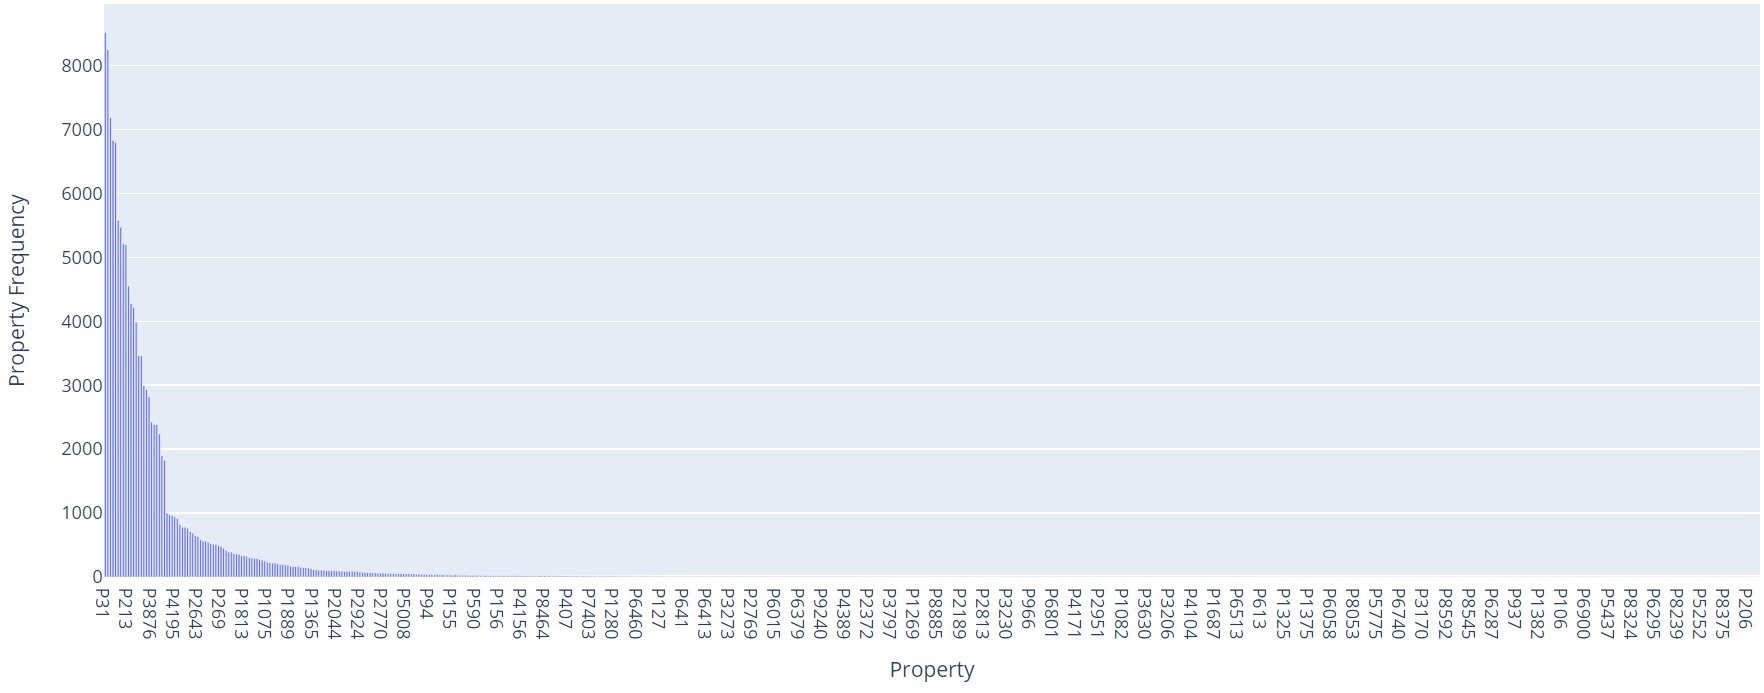
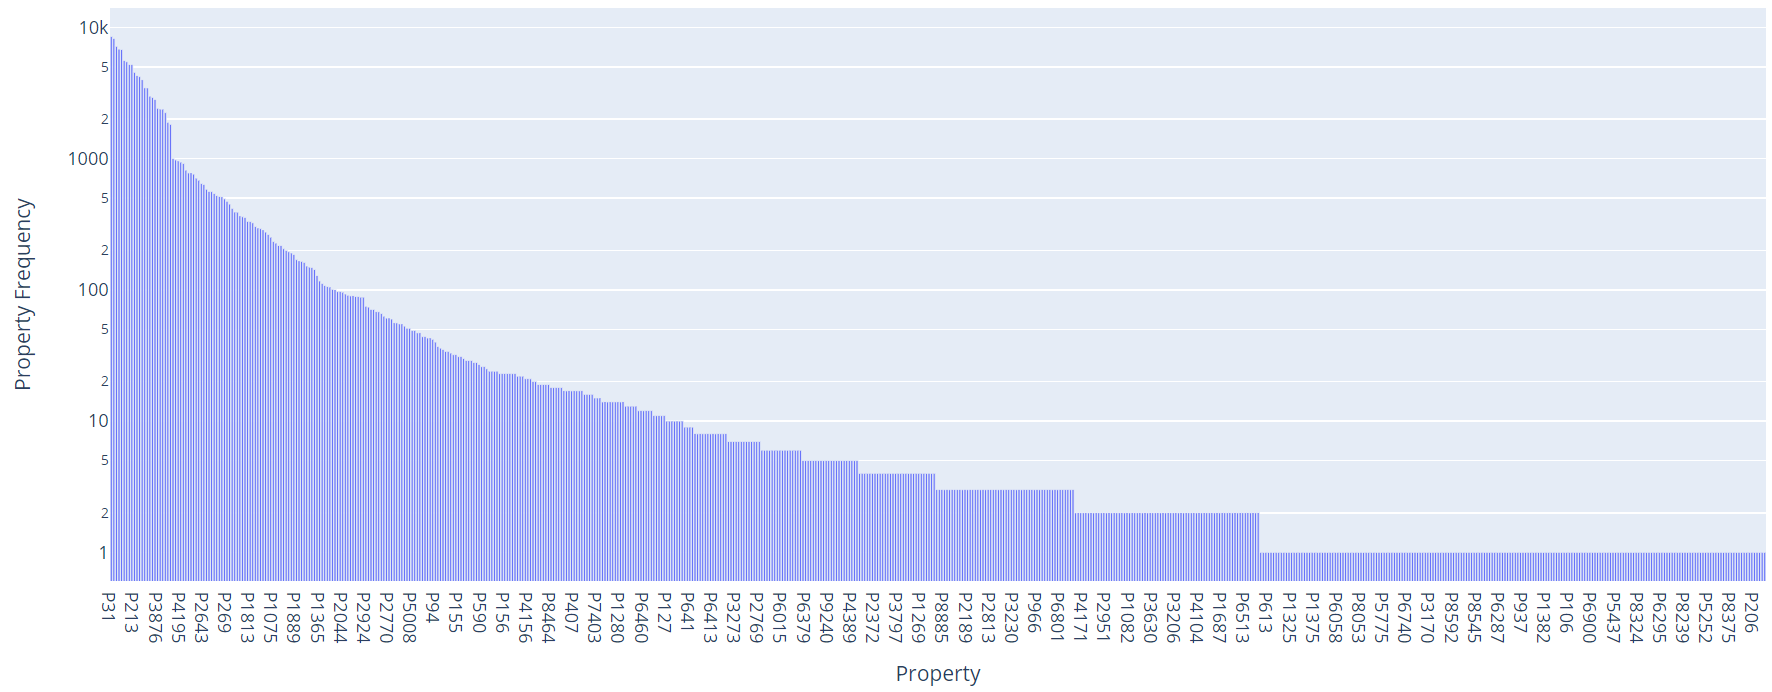
tilføjede propertydistHumans

diff --git a/Users/Magnus/PropertyDistUni.py b/Users/Magnus/PropertyDistUni.py
@@ -1,0 +1,153 @@
+from extractPropertiesFromNDJSON import extractProperties
+from pathlib import Path
+import pandas as pd
+import numpy as np
+import plotly.graph_objects as go
+
+
+def property_count_function(listOfProperties):
+    """
+
+    :param listOfProperties: Input is the listOfProperties, use the function extractProperties.
+    The for loop expects a nested list.
+    :return: property_dataframe: a dataframe containing the properties extracted from the list and the
+    frequency of which they appear
+    """
+
+    property_count = {}  # Empty dict, is gonna look like this: property_count{property : count}
+    for lists in listOfProperties:
+        try:
+            for properties in lists:
+                property_count[properties] = property_count.get(properties, 0) + 1
+        except TypeError as e:
+            print(e)
+
+    # Converts the dictionary to a dataframe
+    property_dataframe = pd.DataFrame(list(property_count.items()), columns=['Property', 'Frequency'])
+    # property_dataframe = property_dataframe.set_index("Property")
+    property_dataframe = property_dataframe.sort_values(by=['Frequency'], ascending=False)
+
+    return property_dataframe
+
+
+def entity_property_count_function(listOfProperties):
+    """
+    Notice that this function returns both a dataframe and a list.
+    When assigning a variable to the return values [0] is the dataframe and [1] is the list.
+    i.e. df = entity_property_count_function(listofProperties)[0] and
+    list = entity_property_count_function(listofProperties)[1]
+
+    :param listOfProperties: Input is the listOfProperties, use the function extractProperties.
+    The for loop expects a nested list.
+    :return: returns 1. the entity_property_dataframe containing ['Number of Properties'] and how many universites
+    have this exact number in ['#Universities'].
+    also returns 2. the number_of_properties_list which is list of amount of properties in each university item
+    """
+    entity_property_count = {}
+    number_of_properties_list = []
+    for lists in listOfProperties:
+        if len(lists) not in entity_property_count:
+            entity_property_count.setdefault(len(lists), 1)
+            number_of_properties_list.append(len(lists))
+        elif len(lists) in entity_property_count:
+            entity_property_count[len(lists)] += 1
+            number_of_properties_list.append(len(lists))
+
+    entity_property_dataframe = pd.DataFrame(list(entity_property_count.items()), columns=['#Properties',
+                                                                                           '#Universities'])
+    entity_property_dataframe = entity_property_dataframe.sort_values(by=['#Properties'], ascending=True)
+    # The next two lines switches the two columns.
+    column_titles = ['#Universities', "#Properties"]
+    entity_property_dataframe = entity_property_dataframe.reindex(columns=column_titles)
+
+    # Sorts the number_of_properties_list before returning it
+    number_of_properties_list = sorted(number_of_properties_list)
+
+    return entity_property_dataframe, number_of_properties_list
+
+
+def replacePcodesWithPlabels(property_dataframe):
+    """
+    A function that replaces a dataframe column ['Property'] with the property labels from the csv
+    propertes.csv.
+
+    :param property_dataframe: Input is a dataframe with the P-codes you want to replace with P-labels.
+    Notice(!) in the code that the it expects the P-code column to be called 'Property'!
+    :return: property_dataframe: returns a dataframe with the P-codes replaced with P-labels
+    """
+
+    # Converts the csv file containing P-codes and P label values to a dataframe
+    property_label_dataframe = pd.read_csv(Path("../../Data/properties.csv"))
+
+    for prop in property_dataframe['Property']:
+        # This for loop goes trough each property and replaces it with each corresponding label
+        if prop in list(property_label_dataframe['Property']):
+            prop_label_value = property_label_dataframe.loc[property_label_dataframe['Property'] == prop,
+                                                            'Value'].iloc[0]
+
+            # This line replaces the P-code with the P label value - Notice inplace=True
+            property_dataframe['Property'].replace({prop: prop_label_value}, inplace=True)
+
+    return property_dataframe
+
+
+if __name__ == '__main__':
+
+    # The full list of properties
+    property_list = extractProperties(Path("../../Data/universities_latest_all.ndjson"))
+
+    # Uses the property_count_function to create a dataframe containing properties and their frequency.
+    property_count_df = property_count_function(property_list)
+
+    # Copy of the property_count_df that should be with P-codes and not P label values
+    property_count_df_without_labels = property_count_df.copy()
+
+    # Uses the function replacePcodesWithPlabels on the dataframe to make a new one with P label values
+    property_count_df_with_labels = replacePcodesWithPlabels(property_count_df)
+
+    number_of_properties_above_1000 = []
+    number_of_properties_below_1000 = []
+    for index, row in property_count_df.iterrows():
+        if row['Frequency'] > 1000:
+            number_of_properties_above_1000.append(index)
+        else:
+            number_of_properties_below_1000.append(index)
+
+    # Below are the figures
+    # Barplot with ALL P-codes and their frequency
+    fig_without_labels = go.Figure()
+    fig_without_labels.add_trace(go.Bar(x=property_count_df_without_labels['Property'],
+                                        y=property_count_df_without_labels['Frequency']))
+    fig_without_labels.update_layout(
+        xaxis_title="Property", yaxis_title="Property Frequency"
+    )
+    fig_without_labels.update_yaxes(type='log')
+    fig_without_labels.show()
+
+    # Horizontal barplot with top 24 P label values and their frequency
+    fig_with_labels = go.Figure()
+    fig_with_labels.add_trace(go.Bar(x=property_count_df_with_labels['Frequency'][0:25],
+                                     y=property_count_df_with_labels['Property'],
+                                     orientation='h'))
+    fig_with_labels.update_layout(
+        xaxis_title="Property Frequency",
+        yaxis_title="Property"
+    )
+    #fig_with_labels.show()
+
+    # The two lines below are the dataframe and a list. The list is used for median and average calculations.
+    university_property_dataframe = entity_property_count_function(property_list)[0]
+    count_list = entity_property_count_function(property_list)[1]
+
+    # Barplot showing how many properties have the exact number of properties in them.
+    university_property_fig = go.Figure()
+    university_property_fig.add_trace(go.Bar(x=university_property_dataframe['#Properties'],
+                                             y=university_property_dataframe['#Universities']))
+    university_property_fig.update_layout(
+        xaxis_title="Number of Properties",
+        yaxis_title="Number of Universities"
+    )
+    #university_property_fig.show()
+
+    #print("The median value for the amount of properties in universities is {}".format(np.median(count_list)))
+    #print("The average value for the amount of properties in universities is {}".format(np.average(count_list)))

diff --git a/Users/Magnus/PropertyDistHumans.py b/Users/Magnus/PropertyDistHumans.py
@@ -2,6 +2,7 @@ from extractPropertiesFromNDJSON import extractProperties
 from pathlib import Path
 import pandas as pd
 import plotly.graph_objects as go
+import numpy as np
 
 
 def property_count_function(listOfProperties):
@@ -93,7 +94,7 @@ def replacePcodesWithPlabels(property_dataframe):
 if __name__ == '__main__':
 
     # The full list of properties
-    property_list = extractProperties(Path("../../Data/universities_latest_all.ndjson"))
+    property_list = extractProperties(Path("../../Data/danish_humans.ndjson"))
 
     # Uses the property_count_function to create a dataframe containing properties and their frequency.
     property_count_df = property_count_function(property_list)
@@ -120,7 +121,8 @@ if __name__ == '__main__':
     fig_without_labels.update_layout(
         xaxis_title="Property", yaxis_title="Property Frequency"
     )
-    #fig_without_labels.show()
+    fig_without_labels.update_yaxes(type="log")
+    fig_without_labels.show()
 
     # Horizontal barplot with top 24 P label values and their frequency
     fig_with_labels = go.Figure()
@@ -131,7 +133,7 @@ if __name__ == '__main__':
         xaxis_title="Property Frequency",
         yaxis_title="Property"
     )
-    #fig_with_labels.show()
+    fig_with_labels.show()
 
     # The two lines below are the dataframe and a list. The list is used for median and average calculations.
     university_property_dataframe = entity_property_count_function(property_list)[0]
@@ -145,7 +147,7 @@ if __name__ == '__main__':
         xaxis_title="Number of Properties",
         yaxis_title="Number of Universities"
     )
-    #university_property_fig.show()
+    university_property_fig.show()
 
-    #print("The median value for the amount of properties in universities is {}".format(np.median(count_list)))
-    #print("The average value for the amount of properties in universities is {}".format(np.average(count_list)))
+    print("The median value for the amount of properties in universities is {}".format(np.median(count_list)))
+    print("The average value for the amount of properties in universities is {}".format(np.average(count_list)))

diff --git a/Users/Ibrahim/PartitionData.py b/Users/Ibrahim/PartitionData.py
@@ -1,7 +1,7 @@
 from extractPropertiesFromNDJSON import extractProperties
 from pathlib import Path
 import pandas as pd
-from Users.Magnus.PropertyDist import property_count_function, entity_property_count_function
+from Users.Magnus.PropertyDistUni import property_count_function, entity_property_count_function
 
 
 

diff --git a/Users/Magnus/MIS2.py b/Users/Magnus/MIS2.py
@@ -1,5 +1,5 @@
 from extractPropertiesFromNDJSON import extractProperties
-from PropertyDist import property_count_function
+from PropertyDistUni import property_count_function
 from pathlib import Path
 import pandas as pd
 
